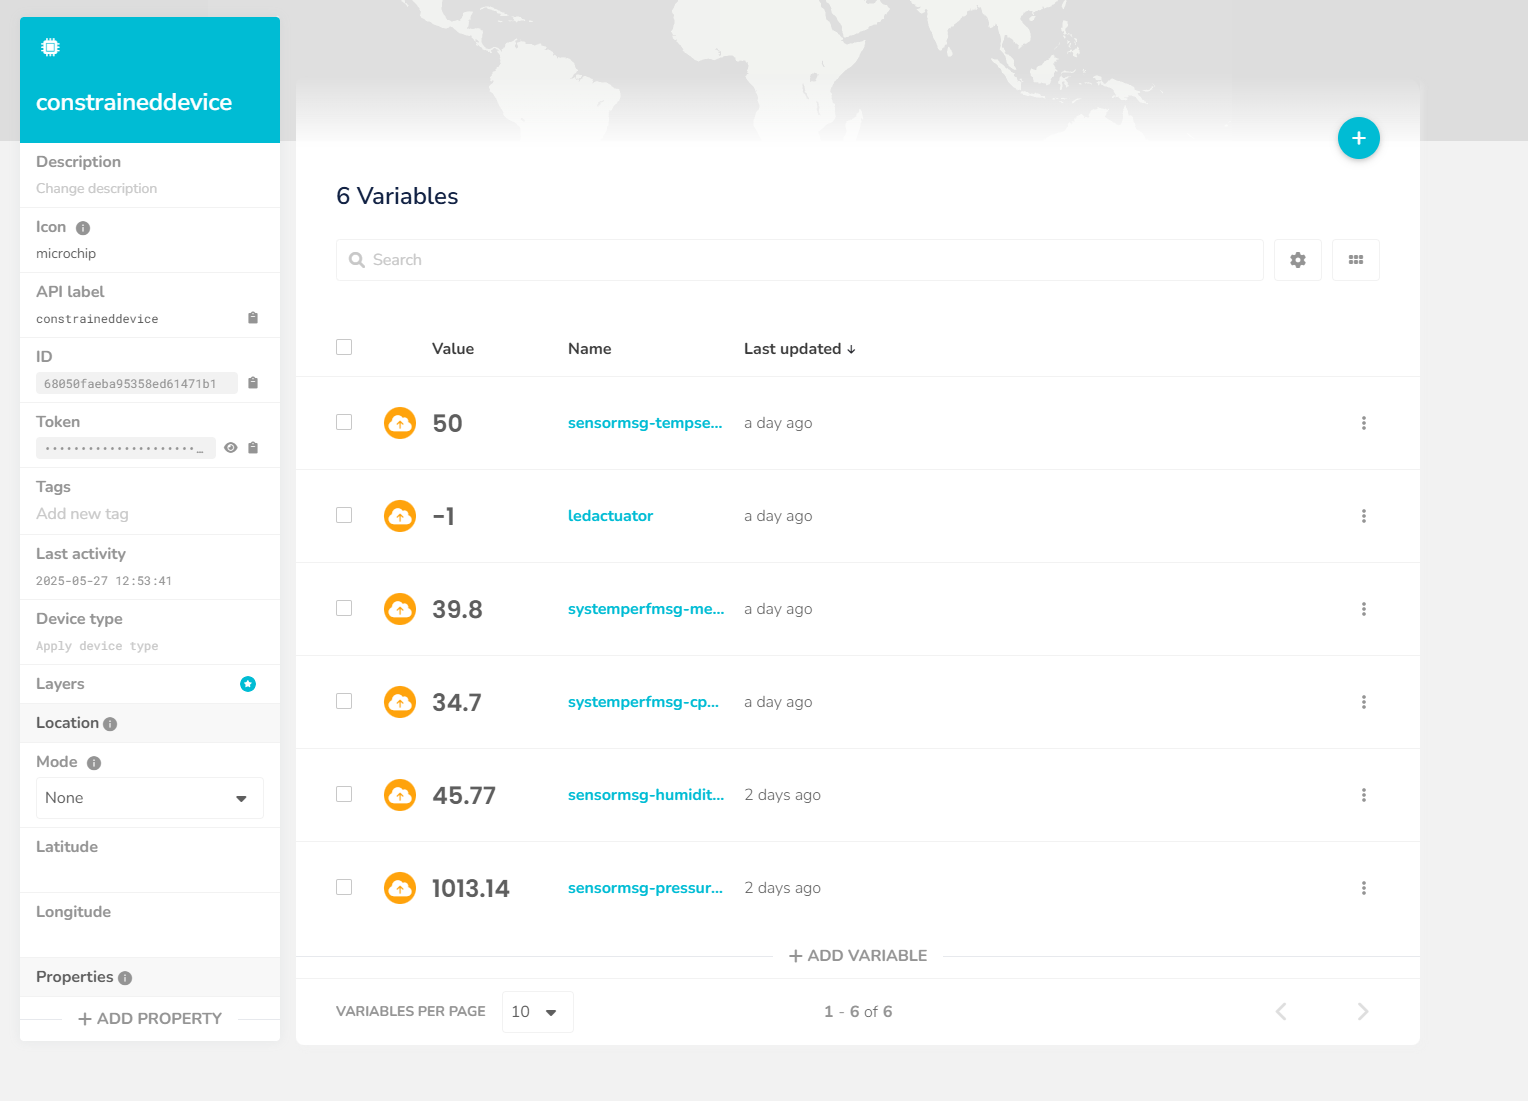
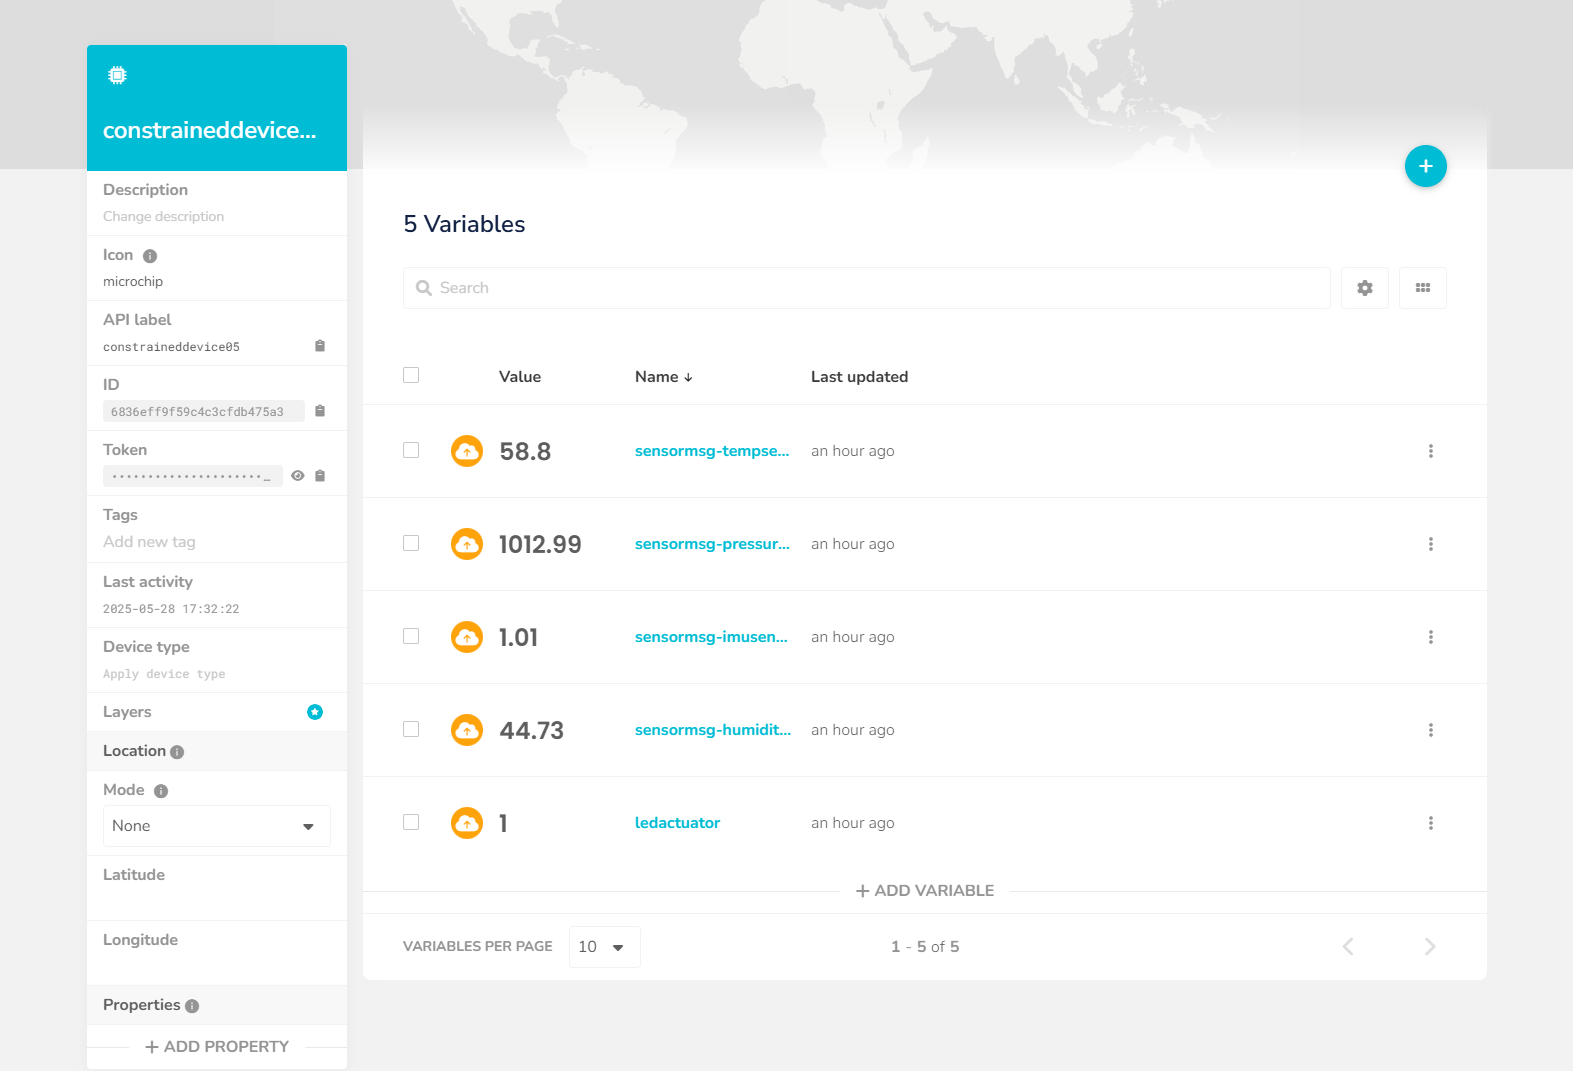
Documentation module 12

diff --git a/labmodule12/README-PROJECT-FINAL.md b/labmodule12/README-PROJECT-FINAL.md
@@ -6,72 +6,90 @@ NOTE: Be sure to implement all the Lab Module 12 requirements listed at Lab Modu
 ## Description
 
 Describe your idea in 1 paragraph (at least 2 or 3 sentences).
+Inicialmente la idea fue mejorar la aplicación del CDA y del GDA para que pudieran aceptar más de un CDA a la vez. Que se pudiera lanzar en distintas terminales la aplicación del CDA, que cada uno tuviera distintos IDs; que el GDA pudiera gestionar cada uno de ellos correctamente; almacenar en el cloud los datos de cada sin mezclarse y que ningún CDA activara un actuador cuando le correspondia a otro.
 
+Una vez cumplido esto, el siguiente objetivo fue sacarle partido a la IMU emulada. A partir de la aceleración en los tres ejes determinar si la vibración de una máquina era demasiada; indicativo de una avería.
 
 
 ## What - The Problem 
 
 What problem did you tackle and why does it matter? Write 1 to 2 paragraphs in response.
+El problema principal que presentaba el proyecto era que no se podía lanzar más de un CDA. No tiene sentido tener un gateway y un servidor cloud para un único dispositivo. Sin los cambios necesarios, lanzar en dos terminales el CDA provocaba que ambos tuvieran el mismo ID y el GDA los interpretara sus mensajes como los del mimso dispositivo.
 
+Por otro lado, un sensor que mida la vibración puede servir para una detección temprana de fallos. Aprovechando esto, el CDA puede avisar para que un técnico arregle la máquina antes de que esta pare la línea de producción.
 
 
 ## Why - Who Cares? 
 
 Why do you care about this particular problem? Write 1 to 2 paragraphs in response.
+Este problema es relevante porque limita la escalabilidad del sistema. En un entorno industrial real, se espera que varios dispositivos trabajen simultáneamente y de forma coordinada. Si cada CDA no puede operar de forma independiente, el sistema no es viable a gran escala. Además, la posibilidad de gestionar múltiples CDAs correctamente desde el GDA mejora notablemente la robustez del sistema.
 
+También importa porque la detección temprana de fallos mediante vibraciones puede evitar costosos paros de producción. Incorporar esta funcionalidad usando la IMU emulada permite dar un paso hacia el mantenimiento predictivo, algo muy valorado en la industria moderna.
 
 
 ## How - Expected Technical Approach
 
 Write 1 to 2 paragraphs describing the outcomes you achieved.
 
+Para abordar el problema de la escalabilidad, se mantuvo la forma original de lanzar el CDA (este usará el ID por defecto definido en el archivo Piot.config). Para lanzar otro CDA, se debe de pasar como parámetro el nuevo ID ('python ConstrainedDeviceApp.py --id <nuevo_id>'). De esta manera, cada CDA tendrá un ID único y el GDA podrá gestionar múltiples CDAs sin confusiones. El GDA ahora almacena los datos de cada CDA en el cloud con un topic específico para cada uno, evitando que se mezclen los datos. Sin embargo, los CDAs extras no pueden emular la rasperry pi, puesto que la clase SenseHAT no permite crear más de un objeto. Por lo tanto, los nuevos CDAs simularán el dispositivo. Además, de que sí se almacenan sus datos en el cloud, independientemente del ID, pero no se activará ningún evento en el cloud para estos. Esto se debe a que habría que crear un evento específico para cada CDA. Se podría hacer uno para grupo de sensores, pero eso sería un función premium de Ubidots.
+
+Por la parte de las vibraciones, el CDA periódicamente obtiene la aceleración de los tres ejes (x, y, z), se calcula la magnitud de la aceleración mediante la raíz cuadrada de la suma de los cuadrados de las aceleraciones en cada eje. El valor se envía al GDA, que lo almacena en el cloud. También el GDA comprueba si la magnitud supera un umbral, en cuyo caso envía un mensaje al CDA para que active el actuador que indica que hay una vibración excesiva o crítica. El CDA recibe este mensaje y muestra una alerta en la pantalla LED.
 
 ### System Diagram
 
 Embed a block diagram depicting your overall design, including the CDA, GDA, and Cloud Services interactions.
 Be sure to include arrows depicting data flow from one application / service to the next.
 
+CDA → (MQTT) → GDA → (MQTT) → Cloud
 
+Cloud → (MQTT) → GDA → (MQTT) → CDA
 
 Write 1 to 2 paragraphs describing your design.
 
-
+El diseño del sistema se basa en una arquitectura de microservicios donde cada componente (CDA, GDA y Cloud) se comunica de manera eficiente a través de MQTT. Esto permite una escalabilidad sencilla, ya que se pueden añadir más CDAs sin necesidad de modificar el GDA o el Cloud. Cada CDA se identifica de forma única mediante su ID, lo que facilita la gestión de múltiples dispositivos. El GDA actúa como intermediario, recibiendo datos de los CDAs y publicándolos en la nube, mientras que también puede enviar comandos de vuelta a los CDAs en función de los datos recibidos. La activación de los actuadores en los CDAs no sólo se basan en decisiones del Cloud, sino que el GDA también puede tomar decisiones sin intervención del Cloud, al igual que el CDA puede actuar de forma autónoma si es necesario.
 
 ### What THREE (3) sensors and ONE (1) actuator did you use (add more if you wish)?
 
-- CDA Sensor 1: 
+- CDA Sensor 1: Temperatura
 
-- CDA Sensor 2: 
+- CDA Sensor 2: Presión
 
-- CDA Sensor 3: 
+- CDA Sensor 3: Humedad
 
-- CDA Actuator 1: 
+- CDA Sensor 4: Aceleración
+
+- CDA Actuator 1: HVAC
+
+- CDA Actuator 2: Humidificador
+
+- CDA Actuator 3: Alerta de vibración
 
 
 
 ### What ONE (1) CDA protocol and TWO (2) GDA protocols did you implement (add more if you wish)?
 
-- CDA to GDA Protocol: 
+- CDA to GDA Protocol: MQTT (está implementado CoAP pero no se usa)
 
-- GDA to CDA Protocol: 
+- GDA to CDA Protocol: MQTT (está implementado CoAP pero no se usa)
 
-- GDA to Cloud Protocol: 
+- GDA to Cloud Protocol: MQTT
 
-- Cloud to GDA Protocol: 
+- Cloud to GDA Protocol: MQTT
 
 
  
 ### What TWO (2) cloud services / capabilities did you use (add more if you wish)?
 
-- Cloud Service 1 (data ingress - all inputs):
+- Cloud Service 1 (data ingress - all inputs): Ubidots
 
-- Cloud Service 2 (data egress - all actuation events):
-
+- Cloud Service 2 (data egress - all actuation events): Ubidots
 
 
 ## Screen Shots Representing Cloud Services
 
+![Cloud Service 1 - Gateway](constrainedDeviceCloudVariable.png)
 
+![Cloud Service 2 - ConstrainedDevice](gatewayDeviceCloudVariable.png)
 
 ### Screen Shots Representing Visualized Data
 
@@ -79,6 +97,27 @@ NOTE: Include (at least) TWO (2) screen shots - one showing at least 1 hour
 of time-series data from the CDA, and one showing an event being triggered
 that results in an actuation event sent to your GDA and then to your CDA.
 
+![CDA Temperature Data Visualization](cdaTemperatureData.png)
+
+En relación con los eventos: 
+
+Por un lado diferentes activaciones del evento de encender el LED del CDA cada vez que la temperatura supera los 50 grados.
+
+![CDA LED Activation Event](EventTriggerLedActuator.png)
+
+Cuando este se activa, esto es lo que vemos en el GDA:
+
+![GDA LED Activation Event](LedDisplayActivateGDA.png)
+
+Finalmente, esto en el CDA:
+
+![CDA LED Activation Event](LedDisplayOn.png)
+
+(el mensaje se activa en la pantalla LED del CDA, no se ve del todo pero se intuye que pone "LED ON" en la pantalla)
+
+Implementé un evento también que envía un mensaje cuando la CPU del GDA está trabajando:
+
+![GDA CPU Event](emailEvent.png)
 
 
 EOF.

diff --git a/labmodule12/README-PROJECT-PROPOSAL.md b/labmodule12/README-PROJECT-PROPOSAL.md
@@ -4,19 +4,23 @@
 
 Describe your idea in 1 paragraph (at least 2 or 3 sentences).
 
-
+La idea del proyecto fue permitir que múltiples instancias del CDA se ejecuten de forma simultánea, cada una con un identificador único, y que el GDA las gestione sin confusión. Cada CDA recoge datos de sensores (temperatura, presión, humedad, aceleración) y envía la información al GDA, que los almacena en la nube. Además, el sistema detecta vibraciones críticas a partir de la aceleración, lo que permite actuar rápidamente para prevenir fallos.
 
 ## What - The Problem 
 
 What problem are you trying to solve and why does it matter? Write 1 to 2 paragraphs in response.
 
+El problema principal era que el sistema original solo permitía un único CDA en funcionamiento. Esto impedía escalar el sistema a múltiples dispositivos, ya que al compartir ID, el GDA no podía distinguir entre ellos. Además, no se aprovechaban todos los sensores disponibles para prevenir fallos mecánicos.
 
+Resolver esto es importante porque en escenarios reales se requiere que varios dispositivos trabajen juntos y de forma coordinada. También permite aprovechar sensores como la IMU para detectar problemas antes de que se produzcan daños graves, reduciendo tiempos de parada y costos.
 
 ## Why - Who Cares? 
 
 Why do you care about this particular problem? Write 1 to 2 paragraphs in response.
 
+Este problema es relevante porque limita el uso del sistema en aplicaciones reales donde se necesita escalar a múltiples sensores y dispositivos. Si solo se permite un CDA, el valor práctico del sistema es muy bajo.
 
+Además, integrar la detección de fallos por vibraciones mejora la capacidad del sistema para alertar sobre situaciones críticas, lo cual es esencial en entornos industriales donde el mantenimiento predictivo puede ahorrar tiempo y dinero.
 
 ## How - Expected Technical Approach
 
@@ -26,12 +30,24 @@ Include a high-level design diagram depicting your planned technical approach - 
 
 Write 1 to 2 paragraphs describing your diagram.
 
+El problema se resuelve permitiendo que cada CDA se lance con un ID único, que se pasa como parámetro. El GDA procesa los datos de todos los CDAs y los publica en la nube usando topics distintos por cada dispositivo. El GDA también analiza los datos de aceleración para detectar vibraciones anormales y, en ese caso, envía una instrucción al CDA correspondiente para activar una alerta en su pantalla LED.
 
+La comunicación entre los dispositivos se realiza con el protocolo MQTT. El CDA se comunica con el GDA mediante MQTT y este, a su vez, publica los datos en la nube (Ubidots), también vía MQTT. El cloud puede enviar mensajes de vuelta al GDA para activar actuadores en los CDA según ciertas condiciones.
+
+[Diagram Placeholder]
+
+CDA → (MQTT) → GDA → (MQTT) → Cloud
+
+Cloud → (MQTT) → GDA → (MQTT) → CDA
+
+Este diseño permite un flujo de datos constante y controlado entre los sensores, el gateway y el servidor cloud, con separación por dispositivo gracias al uso de IDs y topics únicos.
 
 ## Results - Expected Outcomes 
 
 If your project is successful, what outcome do you expect (e.g. what will happen if everything works)? Write 1 to 2 paragraphs describing your expected outcomes.
 
+Si el proyecto funciona correctamente, el GDA podrá recibir datos de múltiples CDAs, identificar correctamente el origen de cada mensaje y almacenarlos en la nube sin mezclar datos. También podrá reaccionar ante valores críticos de aceleración enviando comandos de activación a los dispositivos correspondientes.
 
+Esto dará como resultado un sistema escalable y funcional que permite monitoreo ambiental y de vibración en tiempo real, y que puede ser utilizado en entornos reales para mantenimiento preventivo y gestión inteligente de dispositivos conectados.
 
 EOF.

diff --git a/labmodule12/README-GDA.md b/labmodule12/README-GDA.md
@@ -10,9 +10,11 @@ NOTE: Include two full paragraphs describing your implementation approach by ans
 
 What does your implementation do? 
 
+La implementación del GDA permite gestionar múltiples dispositivos CDA simultáneamente, identificándolos de forma única y manteniendo sus datos completamente separados. Para ello, el GDA ahora genera un topic distinto en el cloud para cada CDA, basándose en su identificador individual. De esta forma, se evita la mezcla de información entre dispositivos y se garantiza una trazabilidad clara de los datos generados por cada uno. Además, el GDA es responsable de almacenar estos datos en el cloud y de tomar decisiones en función de ciertos valores, como la detección de vibraciones críticas, que podrían indicar una avería en el sistema.
+
 How does your implementation work?
 
-He modificado la manera en la que se crea el topic a la hora de enviar mensajes al cloud para que sea distinto para cada sensor conectado al GDA.
+El GDA escucha y recibe los mensajes enviados por cada CDA, identificándolos a través del ID que incluyen en el payload (locationID en el formato JSON). Cuando se detecta un nuevo mensaje, el GDA construye dinámicamente un topic específico en función del locationID del dispositivo remitente y publica los datos en la nube bajo dicho topic. Esto permite mantener los datos separados por origen. Asimismo, el GDA analiza en tiempo real la magnitud de la aceleración recibida desde cada CDA (obtenida por estos a partir de la IMU). Si la magnitud supera un umbral predefinido, el GDA envía una instrucción al CDA correspondiente para que active su actuador, indicando una vibración anormal. Esto convierte al GDA en un componente central en la lógica de supervisión y respuesta del sistema.
 
 ### Code Repository and Branch
 

diff --git a/labmodule12/README-CDA.md b/labmodule12/README-CDA.md
@@ -10,7 +10,11 @@ NOTE: Include two full paragraphs describing your implementation approach by ans
 
 What does your implementation do? 
 
+La implementación del CDA permite ejecutar múltiples instancias de forma paralela, cada una con un ID único, lo que permite su identificación individual por parte del GDA. Cada CDA simula o emula un dispositivo que recoge datos del entorno, como la aceleración en los tres ejes, y los envía periódicamente al GDA. Además, puede recibir instrucciones desde el GDA, como activar un actuador en caso de detectar una vibración excesiva. La pantalla LED se utiliza para mostrar alertas visuales al usuario cuando se detectan estas condiciones críticas.
+
 How does your implementation work?
+
+Para lograr la ejecución simultánea, el CDA puede lanzarse con un parámetro que especifica su ID (--id <nuevo_id>). Si no se proporciona, usa el ID por defecto del archivo Piot.config. Esta ID se incluye en todos los mensajes enviados al GDA, permitiendo su identificación. El CDA obtiene datos de aceleración de los ejes x, y, z a través de la IMU emulada o simulada, calcula la magnitud total de la aceleración y la envía al GDA. En caso de recibir una instrucción de activación del actuador (por vibración crítica), el CDA muestra una alerta en la pantalla LED. Las instancias adicionales del CDA, que no pueden usar SenseHAT directamente, funcionan con una simulación del hardware, pero siguen siendo funcionales en cuanto a generación de datos y respuesta a mensajes.
 
 ### Code Repository and Branch
 
